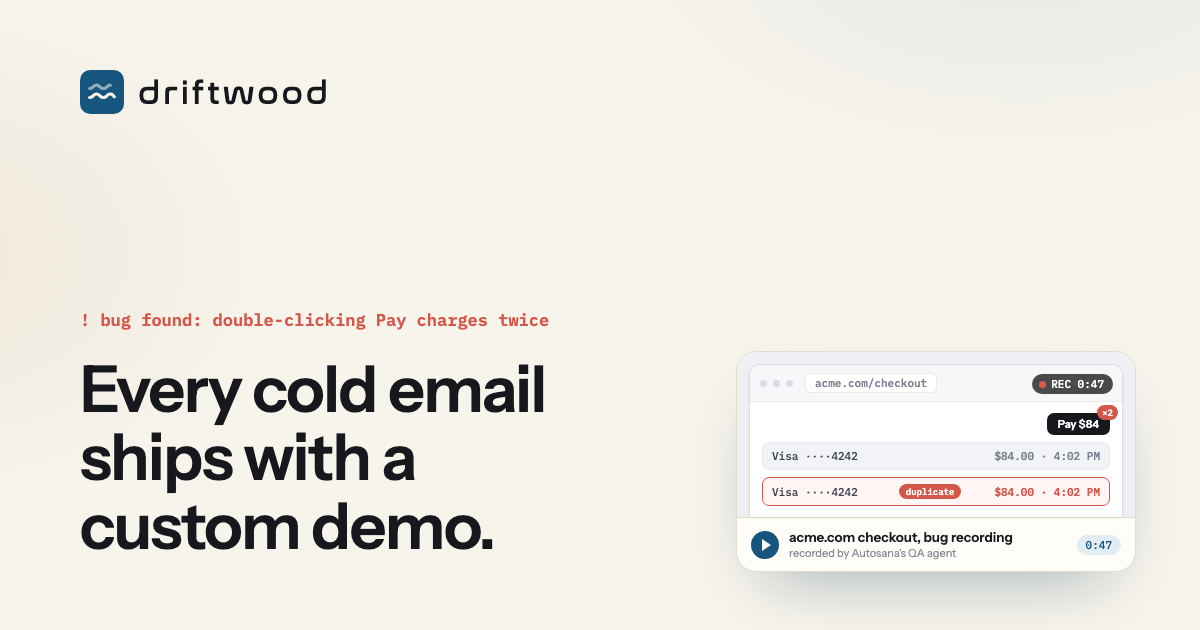
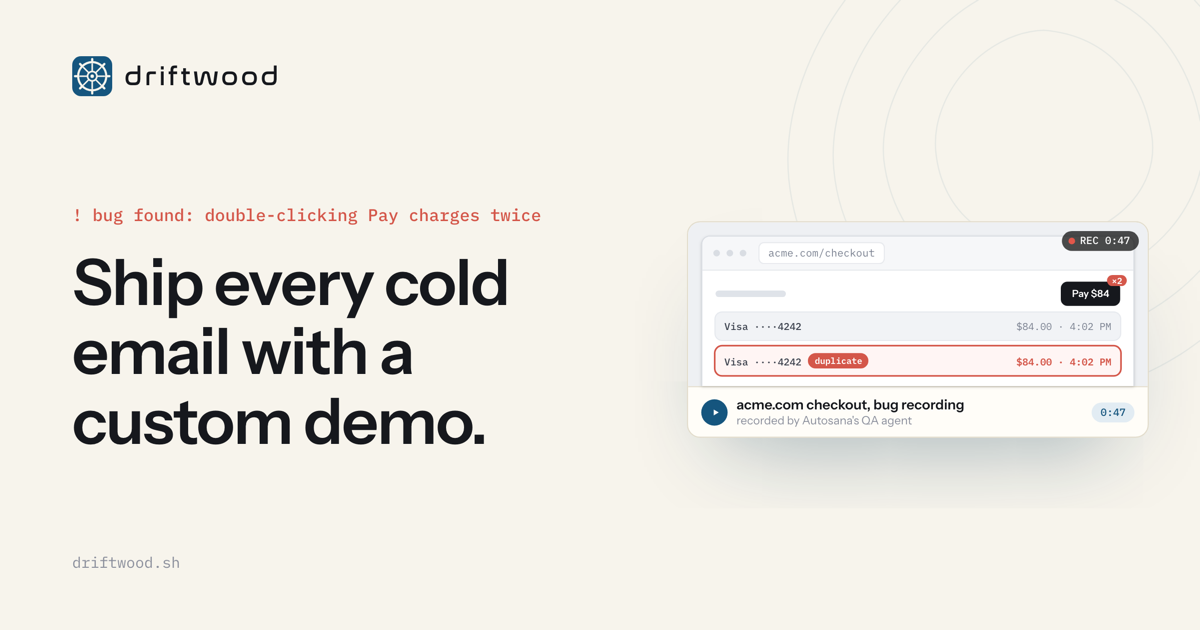
Refresh OG card, thicken waitlist form, bring vignettes to mobile
- og.png regenerated from a live /og route that composes the real
  components (wordmark, BugDemoCard, contours) with the current
  headline and lowercase mono; title/og:description updated to match.
- Waitlist input/button are h-14 with 16px input text (also avoids
  iOS focus zoom).
- Mobile What-we-handle list now shows each step's vignette; the
  hero demo drops the prospect pill on small screens, wrapped log
  lines top-align their icons, and stacked emails get more breathing
  room.

diff --git a/landing/src/OgCard.tsx b/landing/src/OgCard.tsx
@@ -1,0 +1,49 @@
+import { BugDemoCard } from "./components/AgentDemo";
+import { Wordmark } from "./components/Chrome";
+
+/* Social share card, rendered at /og and screenshotted to public/og.png.
+   Regenerate with: playwright screenshot of /og at 1200x630. */
+export default function OgCard() {
+  return (
+    <div className="relative flex h-[630px] w-[1200px] flex-col overflow-hidden bg-paper px-18 py-14">
+      {/* faint sea-chart contours, echoing the hero */}
+      <svg
+        viewBox="0 0 600 600"
+        aria-hidden="true"
+        className="pointer-events-none absolute -right-36 -top-40 size-150 text-tide opacity-[0.07]"
+      >
+        <g fill="none" stroke="currentColor" strokeWidth="1.3">
+          <path d="M300 40 C 420 50 540 140 555 280 C 568 400 480 530 330 555 C 190 575 60 480 45 340 C 32 210 150 55 300 40 Z" />
+          <path d="M300 90 C 400 95 495 170 508 285 C 518 380 445 480 320 502 C 205 520 100 440 90 330 C 80 225 180 92 300 90 Z" />
+          <path d="M300 140 C 380 145 445 200 458 290 C 468 360 410 432 315 450 C 222 465 150 405 140 320 C 132 240 215 142 300 140 Z" />
+          <path d="M300 190 C 360 195 398 235 408 295 C 416 348 372 392 308 402 C 245 412 198 372 192 312 C 186 255 240 192 300 190 Z" />
+        </g>
+      </svg>
+
+      <div className="text-[26px] text-ink">
+        <Wordmark markSize="size-10" />
+      </div>
+
+      <div className="flex flex-1 items-center gap-14">
+        <div className="min-w-0 flex-1">
+          <p className="m-0 font-mono text-[17px] font-medium text-[#d4574a]">
+            ! bug found: double-clicking Pay charges twice
+          </p>
+          <h1 className="mb-0 mt-5 text-[64px] font-semibold leading-[1.08] tracking-[-0.02em] text-ink">
+            Ship every cold
+            <br />
+            email with a<br />
+            custom demo.
+          </h1>
+        </div>
+        <div className="w-105 shrink-0 scale-110 origin-center">
+          <div className="rounded-2xl shadow-[0_36px_80px_-36px_rgba(13,60,91,0.45)]">
+            <BugDemoCard />
+          </div>
+        </div>
+      </div>
+
+      <p className="m-0 font-mono text-[15px] text-ink-faint">driftwood.sh</p>
+    </div>
+  );
+}

diff --git a/landing/src/components/WaitlistForm.tsx b/landing/src/components/WaitlistForm.tsx
@@ -26,7 +26,7 @@ export default function WaitlistForm({ id }: { id?: string }) {
 
   if (status === "done") {
     return (
-      <div className="flex h-13 items-center gap-2.5 text-[15px] font-medium text-tide">
+      <div className="flex h-14 items-center gap-2.5 text-[15px] font-medium text-tide">
         <svg viewBox="0 0 24 24" className="size-5 stroke-tide" fill="none" strokeWidth="2" strokeLinecap="round" strokeLinejoin="round">
           <path d="M5 12.5l4.5 4.5L19 7.5" />
         </svg>
@@ -47,17 +47,17 @@ export default function WaitlistForm({ id }: { id?: string }) {
         value={email}
         onChange={(e) => setEmail(e.target.value)}
         placeholder="Work email"
-        className="h-13 flex-1 rounded-xl border border-line bg-surface px-4 text-[15px] text-ink outline-none transition-shadow placeholder:text-ink-faint focus:border-tide focus:ring-2 focus:ring-tide/25"
+        className="h-14 flex-1 rounded-xl border border-line bg-surface px-4.5 text-[16px] text-ink outline-none transition-shadow placeholder:text-ink-faint focus:border-tide focus:ring-2 focus:ring-tide/25"
       />
       <button
         type="submit"
         disabled={status === "loading"}
-        className="h-13 shrink-0 cursor-pointer rounded-xl bg-tide px-5 text-[15px] font-semibold text-white transition-colors hover:bg-tide-deep disabled:opacity-60"
+        className="h-14 shrink-0 cursor-pointer rounded-xl bg-tide px-5.5 text-[15.5px] font-semibold text-white transition-colors hover:bg-tide-deep disabled:opacity-60"
       >
         {status === "loading" ? "Joining\u2026" : "Get early access"}
       </button>
       {status === "error" && (
-        <p className="m-0 text-[13px] text-[#a04432] sm:absolute sm:translate-y-14">
+        <p className="m-0 text-[13px] text-[#a04432] sm:absolute sm:translate-y-15">
           Something broke on our end. Email [email redacted] instead.
         </p>
       )}

diff --git a/landing/src/components/AgentDemo.tsx b/landing/src/components/AgentDemo.tsx
@@ -217,16 +217,16 @@ export default function AgentDemo() {
                   <span className="pulse-dot size-1.5 rounded-full bg-tide" />
                   autosana &times; driftwood
                 </span>
-                <span className="rounded-full bg-sand px-2.5 py-0.5 text-[11px] font-medium text-ink-soft">
+                <span className="hidden rounded-full bg-sand px-2.5 py-0.5 text-[11px] font-medium text-ink-soft sm:inline-block">
                   prospect: Sarah Chen &middot; Acme
                 </span>
               </div>
               <div className="space-y-2.5 px-5 pb-2 pt-4 font-mono text-[12.5px] text-ink-soft">
                 {LOG_LINES.slice(0, f.logs).map((line, i) => (
-                  <p key={line} className="log-line m-0 flex items-center gap-2.5" style={{ animationDelay: `${i * 0.04}s` }}>
+                  <p key={line} className="log-line m-0 flex items-start gap-2.5" style={{ animationDelay: `${i * 0.04}s` }}>
                     <svg
                       viewBox="0 0 24 24"
-                      className={`size-3.5 shrink-0 ${i === 2 ? "stroke-[#d4574a]" : "stroke-tide"}`}
+                      className={`mt-[2.5px] size-3.5 shrink-0 ${i === 2 ? "stroke-[#d4574a]" : "stroke-tide"}`}
                       fill="none"
                       strokeWidth="2.4"
                       strokeLinecap="round"

diff --git a/landing/src/App.tsx b/landing/src/App.tsx
@@ -459,6 +459,9 @@ function HowSection() {
               </span>
               <h3 className="m-0 text-[18px] font-semibold">{step.title}</h3>
               <p className="mb-0 mt-2 max-w-110 text-[14.5px] leading-relaxed text-ink-soft">{step.body}</p>
+              <div className="-ml-16 mt-5 sm:ml-0 sm:max-w-130">
+                <step.art />
+              </div>
             </li>
           ))}
         </ol>
@@ -632,7 +635,7 @@ function WedgeSection() {
             Don't send slop.
           </h2>
         </div>
-        <div className="reveal wedge-reveal mt-12 grid gap-6 lg:grid-cols-2">
+        <div className="reveal wedge-reveal mt-12 grid gap-10 lg:grid-cols-2 lg:gap-6">
           <div className="wedge-usual flex flex-col">
             <p className="mb-3 ml-1 font-mono text-[11.5px] tracking-[0.02em] text-ink-faint">The usual</p>
             <UsualEmail />

diff --git a/landing/index.html b/landing/index.html
@@ -3,7 +3,7 @@
   <head>
     <meta charset="UTF-8" />
     <meta name="viewport" content="width=device-width, initial-scale=1.0" />
-    <title>driftwood — every cold email ships with a custom demo</title>
+    <title>driftwood — ship every cold email with a custom demo</title>
     <meta
       name="description"
       content="driftwood runs your cold outbound pipeline end to end — sourcing, inbox warming, sequencing — and builds each prospect a working demo of your product."
@@ -16,7 +16,7 @@
       rel="stylesheet"
     />
     <meta property="og:title" content="driftwood" />
-    <meta property="og:description" content="Every cold email ships with a custom demo." />
+    <meta property="og:description" content="Ship every cold email with a custom demo." />
     <meta property="og:type" content="website" />
     <meta property="og:url" content="https://driftwood.sh" />
     <meta property="og:image" content="https://driftwood.sh/og.png" />

diff --git a/landing/src/main.tsx b/landing/src/main.tsx
@@ -2,11 +2,13 @@ import { StrictMode } from 'react'
 import { createRoot } from 'react-dom/client'
 import './index.css'
 import App from './App.tsx'
+import OgCard from './OgCard.tsx'
 // Pricing is parked for now; re-enable by restoring the route below.
 // import Pricing from './Pricing.tsx'
 
 // const page = window.location.pathname.replace(/\/+$/, '') === '/pricing' ? <Pricing /> : <App />
-const page = <App />
+// /og renders the social card; screenshot it at 1200x630 to refresh public/og.png
+const page = window.location.pathname.replace(/\/+$/, '') === '/og' ? <OgCard /> : <App />
 
 createRoot(document.getElementById('root')!).render(
   <StrictMode>{page}</StrictMode>,